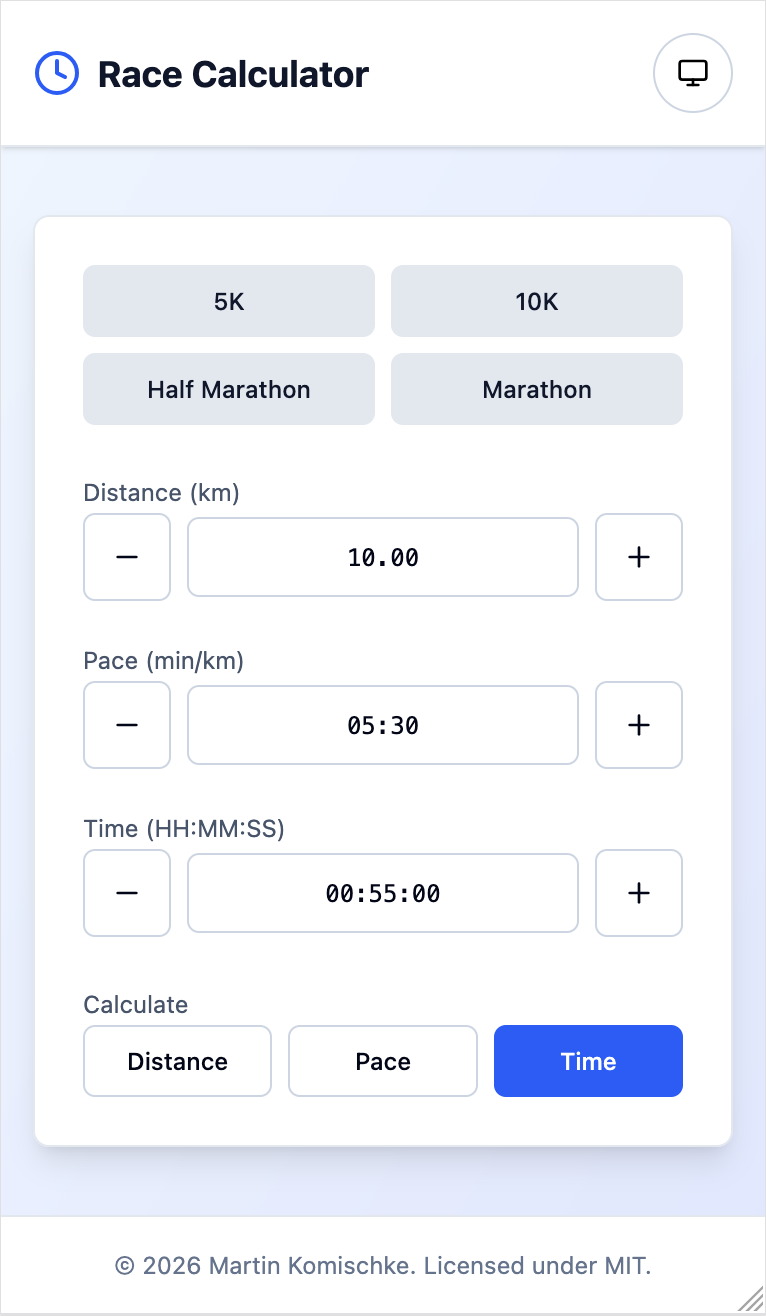
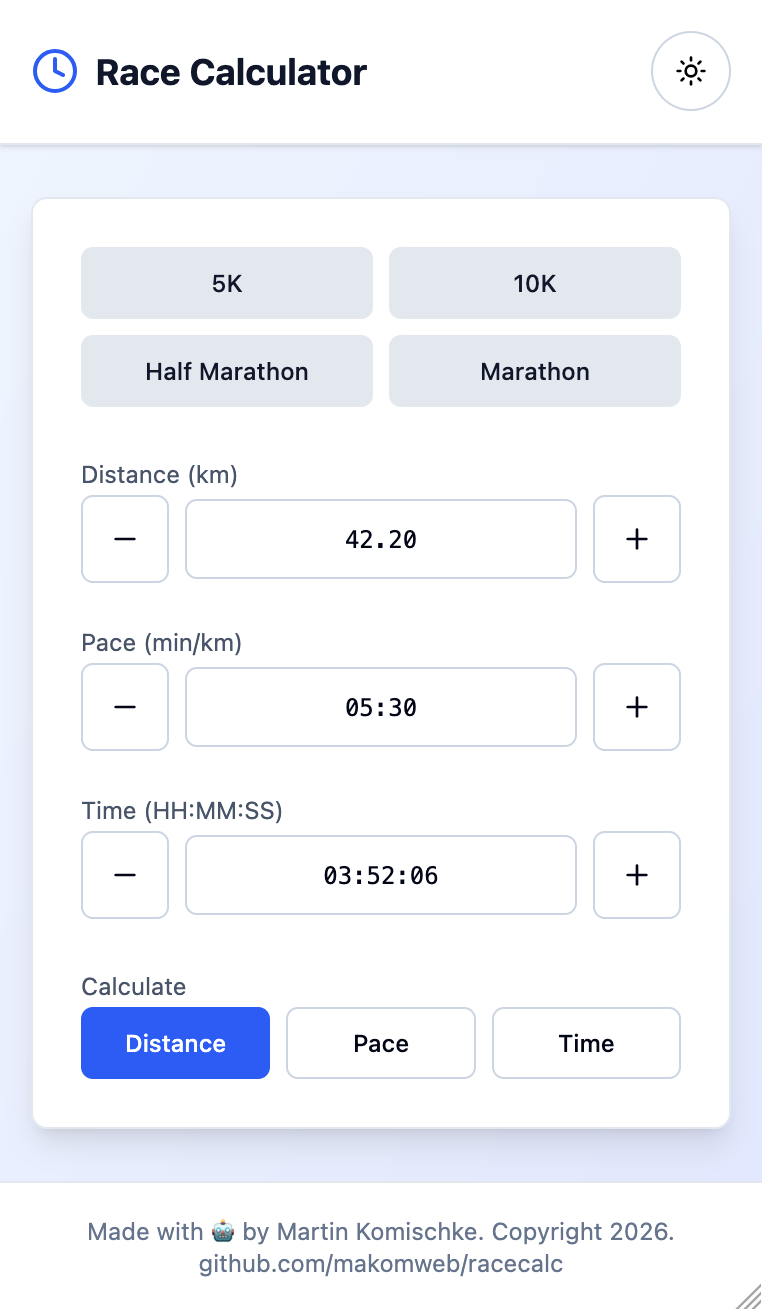
improve README.md

diff --git a/src/components/Footer.tsx b/src/components/Footer.tsx
@@ -3,7 +3,7 @@ export default function Footer() {
     <footer className="border-t border-slate-200 dark:border-slate-800 bg-white dark:bg-slate-950 py-4">
       <div className="max-w-2xl mx-auto px-4 text-center">
         <p className="text-xs text-slate-500 dark:text-slate-400">
-          © 2026 Martin Komischke. Licensed under MIT.
+          Made with 🤖 by Martin Komischke. Copyright 2026. <a href="https://github.com/makomweb/racecalc">github.com/makomweb/racecalc</a>
         </p>
       </div>
     </footer>

diff --git a/README.md b/README.md
@@ -1,42 +1,26 @@
-# Race Calc - Pace Time Distance
+# Race Calculator
 
-A fast and intuitive calculator for converting between pace, time, and distance.
+Fast, friendly, race-ready.
 
-Perfect for runners, cyclists, and anyone tracking performance metrics.
+Static website for pace/time/distance calculations.
 
-**Live Site:** https://makomweb.github.io/racecalc
+- Built with [React](https://react.dev/), [shadcn-ui](https://ui.shadcn.com/), and [Tailwind CSS](https://tailwindcss.com/).
+- Local development: [Vite](https://vite.dev/).
+- Theming: bright, dark, system.
+- Live: [GitHub Pages](https://makomweb.github.io/racecalc).
 
-## Screenshots
+Screenshots:
 
 <table>
-  <tr>
-    <td><img src="./images/bright.png" alt="Bright mode" width="300px"></td>
-    <td><img src="./images/dark.png" alt="Dark mode" width="300px"></td>
-  </tr>
+	<tr>
+		<td><a href="./images/bright.png"><img src="./images/bright.png" alt="Bright mode" width="300px"></a></td>
+		<td><a href="./images/dark.png"><img src="./images/dark.png" alt="Dark mode" width="300px"></a></td>
+	</tr>
 </table>
 
-## Prerequisites
-
-- [Node.js](https://nodejs.org/) (v18 or higher)
-- npm (comes with Node.js)
-
-## Getting Started
+Quick start:
 
 ```bash
-# Install Dependencies
 npm install
-
-# Run Development Server
 npm run dev
-
-# Run Tests
-npm run test
-
-# Build for Production
-npm run build
-
-# Lint Code
-npm run lint
 ```
-
-Open browser at: http://localhost:5173
